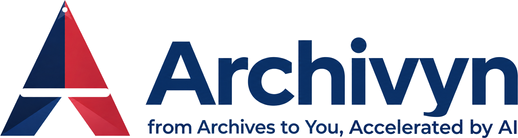
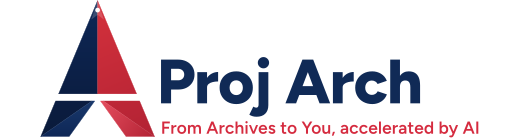
Name the platform Proj Arch
The company is not registered, so the name people see is Proj Arch
everywhere: page text, emails, alt text, titles, and the logo files
(same file names, new wordmark). Contact addresses on the public pages
point at ngocommunications2025@gmail.com until a Proj Arch address
exists.

Unchanged on purpose: cookie, database and service names, CSS file
names, HTTP header names, crawler user agents, and the @archivyn.com
scholar logins, which are existing accounts' identifiers.

diff --git a/sd-ui/src/components/profile/ScholarProfileView.js b/sd-ui/src/components/profile/ScholarProfileView.js
@@ -17,7 +17,7 @@ import SuggestButton from "@/components/profile/SuggestButton";
 import Tile from "@/components/scholar/Tile";
 
 /**
- * Profile: who you are here, as Archivyn holds it.
+ * Profile: who you are here, as Proj Arch holds it.
  *
  * ── What it is for ─────────────────────────────────────────────────────────
  * The record behind everything the platform says about a scholar, curated
@@ -29,7 +29,7 @@ import Tile from "@/components/scholar/Tile";
  * ── What it is not ─────────────────────────────────────────────────────────
  * A second Studio. It used to carry its own "Write an editorial" button, a
  * third name for the door the Studio and Stories already have, and it called
- * stories "editorials". It now has neither: the work on Archivyn is listed,
+ * stories "editorials". It now has neither: the work on Proj Arch is listed,
  * by the names the rest of the app uses, and writing starts where it starts
  * everywhere else.
  *
@@ -216,12 +216,12 @@ export default function ScholarProfileView({ data, corrections }) {
       <header className="prof-head">
         <ProfileAvatar src={photoSrc} initials={profile.initials} name={profile.name} />
         <div className="prof-head__id">
-          <p className="dash-date">Your profile, as Archivyn holds it</p>
+          <p className="dash-date">Your profile, as Proj Arch holds it</p>
           <h1 className="dash-greet prof-name">
             {heading}
-            <span className="prof-verified" title="Verified Archivyn scholar">
+            <span className="prof-verified" title="Verified Proj Arch scholar">
               <HiCheckBadge size={22} aria-hidden />
-              <span className="sr-only">Verified Archivyn scholar</span>
+              <span className="sr-only">Verified Proj Arch scholar</span>
             </span>
           </h1>
           {tagline ? <p className="prof-tagline">{tagline}</p> : null}
@@ -235,7 +235,7 @@ export default function ScholarProfileView({ data, corrections }) {
         </div>
         <div className="prof-head__actions">
           <SuggestButton sectionKey="identity" label="Name and headline" currentText={snapshot.identity} />
-          <Link href="/content" className="dash-btn">What Archivyn says about you <HiOutlineArrowRight size={14} aria-hidden /></Link>
+          <Link href="/content" className="dash-btn">What Proj Arch says about you <HiOutlineArrowRight size={14} aria-hidden /></Link>
         </div>
       </header>
 

diff --git a/sd-api/src/lib/voiceStanding.js b/sd-api/src/lib/voiceStanding.js
@@ -1,5 +1,5 @@
 /**
- * Whether Archivyn may speak *as* a scholar, rather than *about* them.
+ * Whether Proj Arch may speak *as* a scholar, rather than *about* them.
  *
  * ── The line this draws ────────────────────────────────────────────────────
  * The legendary-story pipeline carries `safety.assume_deceased: true`. Every
@@ -33,13 +33,13 @@
  */
 
 const STANDING = {
-  /** The default. Archivyn writes about them, third person, cited. */
+  /** The default. Proj Arch writes about them, third person, cited. */
   CONTEMPORARY: "contemporary",
   /** Opted in, working through the gates. Still written about. */
   CANDIDATE: "candidate",
   /** Corpus, record and consent hold. Voice fidelity under test. */
   CALIBRATING: "calibrating",
-  /** Archivyn may speak as them, inside their declared scope. */
+  /** Proj Arch may speak as them, inside their declared scope. */
   STANDING: "standing",
   /** Held standing; a gate regressed or a warden tripped. Recoverable. */
   SUSPENDED: "suspended",
@@ -65,7 +65,7 @@ function maySpeakAs(standing) {
  * That is the point rather than an oversight. A voice built from 13 third-party
  * chunks under short-quote licences would be neither faithful nor lawful. The
  * gate is cleared by the scholar contributing their own work, which is the one
- * thing Archivyn cannot acquire by scraping — and which simultaneously gives it
+ * thing Proj Arch cannot acquire by scraping — and which simultaneously gives it
  * rights it does not otherwise have.
  */
 const THRESHOLDS = {
@@ -155,7 +155,7 @@ const GATES = [
   {
     key: "record",
     title: "Your record, checked by you",
-    /* Why it exists: everything Archivyn generates about a scholar — passages,
+    /* Why it exists: everything Proj Arch generates about a scholar — passages,
        stories, and any answer a voice would give — is produced from the curated
        record. Checking a generated artefact fixes one disposable thing; checking
        the record fixes every artefact that will ever be made from it.

diff --git a/sd-ui/src/components/scholar/Topbar.js b/sd-ui/src/components/scholar/Topbar.js
@@ -34,7 +34,7 @@ import { AGENT_NAME } from "@/lib/kivyn/pose.mjs";
  * written has no other way to start the next one. Everywhere else it would
  * be in the way. The Studio carries it as a nudge in the page; the new story
  * and a story's own page are already the editor; Papers starts a story from
- * each paper's row; Podcasts, Profile, what Archivyn says about you and Where
+ * each paper's row; Podcasts, Profile, what Proj Arch says about you and Where
  * you stand are not about writing.
  *
  * It is not pinned. It scrolls away with the page — on a reading and writing
@@ -245,7 +245,7 @@ function AccountMenu({ me, active = false }) {
 /* The compact lockup (the mark and the word, no tagline: at bar size the
    tagline would be 5px tall). Width and height are the file's viewBox, so the
    box is reserved before it loads; CSS sets the drawn height. */
-const LOCKUP = { src: "/brand/archivyn-lockup-compact.svg", width: 748.5, height: 225.83 };
+const LOCKUP = { src: "/brand/archivyn-lockup-compact.svg", width: 752.59, height: 226.22 };
 
 export default function Topbar({ activeHref = "/", me = { initials: "SC", name: "Scholar" }, write = false }) {
   const [searchOpen, setSearchOpen] = useState(false);
@@ -271,14 +271,14 @@ export default function Topbar({ activeHref = "/", me = { initials: "SC", name: 
   return (
     <header className="nb-bar">
       <div className="nb-bar__inner">
-        <Link href="/" className="nb-brand" aria-label="Archivyn — home">
+        <Link href="/" className="nb-brand" aria-label="Proj Arch — home">
           {/* Vector, from scripts/brand/archivyn_logo.py: sharp at every size
               and density. A plain <img>, because next/image has nothing to
               optimise in an SVG. */}
           {/* eslint-disable-next-line @next/next/no-img-element */}
           <img
             src={LOCKUP.src}
-            alt="Archivyn"
+            alt="Proj Arch"
             width={LOCKUP.width}
             height={LOCKUP.height}
             className="nb-lockup"

diff --git a/sd-ui/src/app/globals.css b/sd-ui/src/app/globals.css
@@ -2,7 +2,7 @@
 @import "./archivyn-type.css";
 
 :root {
-  /* ── Legacy "flag" palette — aliased onto the canonical Archivyn tokens ── */
+  /* ── Legacy "flag" palette — aliased onto the canonical Proj Arch tokens ── */
   --flag-red: var(--ark-red);
   --flag-blue: var(--ark-navy);
   --flag-white: #ffffff;
@@ -19,7 +19,7 @@
   --shadow-lg: var(--ark-shadow-lg);
   --shadow-md: var(--ark-shadow-md);
 
-  /* ── Scholar Commons — aliased onto the canonical Archivyn tokens ───── */
+  /* ── Scholar Commons — aliased onto the canonical Proj Arch tokens ───── */
   --ink: var(--ark-text);
   --navy: var(--ark-navy);
   --navy-2: var(--ark-blue);
@@ -2903,7 +2903,7 @@ select {
 .st-page {
   padding: 20px 24px 44px; display: grid; grid-template-columns: minmax(0, 1fr) minmax(300px, 360px); gap: 18px; align-items: start;
   /* Aliases, not values. The recipe lives in archivyn-tokens.css, which every
-     Archivyn app ships a copy of; these short names keep the rules below
+     Proj Arch app ships a copy of; these short names keep the rules below
      readable without giving this page its own definition of a card. */
   --st-line: var(--ark-card-line);
   --st-line-strong: var(--ark-card-line-strong);
@@ -5118,7 +5118,7 @@ html.rc-open .public-story-shell { padding-right: calc(var(--rc-width) + var(--r
 
 /* ══ Profile ═════════════════════════════════════════════════════════════════
    The record, in the Studio's cards and tiles: who, then four numbers, then
-   the record beside the details and the work on Archivyn. Everything here is
+   the record beside the details and the work on Proj Arch. Everything here is
    the dashboard's own parts (.dash, .dash-card, .dash-tile, .dash-pill); these
    rules are only what a record has that a dashboard does not. */
 .prof-head { display: flex; align-items: center; gap: 20px; }

diff --git a/sd-ui/src/components/scholar/ContentInventory.js b/sd-ui/src/components/scholar/ContentInventory.js
@@ -111,7 +111,7 @@ export default function ContentInventory({ data }) {
         <h3>We can&rsquo;t load this right now</h3>
         <p>
           Please try again shortly. This isn&rsquo;t a statement about what
-          Archivyn publishes about you &mdash; we simply couldn&rsquo;t reach it.
+          Proj Arch publishes about you &mdash; we simply couldn&rsquo;t reach it.
         </p>
       </div>
     );
@@ -128,10 +128,10 @@ export default function ContentInventory({ data }) {
   return (
     <>
       <header className="sc-page-head">
-        <span className="sc-kicker">Your work on Archivyn</span>
+        <span className="sc-kicker">Your work on Proj Arch</span>
         <h1>Published under your name</h1>
         <p>
-          Everything Archivyn currently shows students, drawn from your
+          Everything Proj Arch currently shows students, drawn from your
           published research or written by you.
         </p>
       </header>
@@ -165,7 +165,7 @@ export default function ContentInventory({ data }) {
           </div>
           <h3>Nothing yet</h3>
           <p>
-            Archivyn hasn&rsquo;t published anything under your name. When it
+            Proj Arch hasn&rsquo;t published anything under your name. When it
             does, it will appear here &mdash; before most people see it.
           </p>
         </div>
@@ -212,7 +212,7 @@ export default function ContentInventory({ data }) {
       {unlinkedEditorials > 0 ? (
         <p className="sc-rail-note">
           {unlinkedEditorials} editorial{unlinkedEditorials === 1 ? "" : "s"} on
-          Archivyn predate scholar sign-in and aren&rsquo;t yet linked to a
+          Proj Arch predate scholar sign-in and aren&rsquo;t yet linked to a
           profile. If you wrote one, tell us and we&rsquo;ll connect it.
         </p>
       ) : null}

diff --git a/sd-api/src/lib/draftComposer.js b/sd-api/src/lib/draftComposer.js
@@ -6,7 +6,7 @@
  * scholar then edits and publishes under their own byline.
  *
  * ── Two voices, and the line between them ──────────────────────────────────
- * `voiceStanding.js` draws the line that Archivyn may write ABOUT a living
+ * `voiceStanding.js` draws the line that Proj Arch may write ABOUT a living
  * scholar by default and AS them only with standing, and no scholar has
  * standing yet. A draft that starts "I found…" under a real name is a claim
  * the person did not make. That rule still holds, in both voices here.
@@ -177,7 +177,7 @@ function buildSystemInstruction({ voice = DEFAULT_VOICE, scholarName = null } = 
   const name = scholarName || "the author";
   if (normaliseVoice(voice) === VOICE.AUTHOR) {
     return [
-      "You draft articles for Archivyn, a public archive that introduces readers to real, living scholars",
+      "You draft articles for Proj Arch, a public archive that introduces readers to real, living scholars",
       "through their own research. This article is the author's own account of their own paper, for a reader",
       "who has not read it. It goes out under their byline, so the prose never refers to them at all.",
       "",
@@ -199,7 +199,7 @@ function buildSystemInstruction({ voice = DEFAULT_VOICE, scholarName = null } = 
     ].join("\n");
   }
   return [
-    "You draft articles for Archivyn, a public archive that introduces readers to real, living scholars",
+    "You draft articles for Proj Arch, a public archive that introduces readers to real, living scholars",
     "through their own research. You are writing ABOUT a scholar's paper, for a reader who has not read it.",
     "",
     "Rules that are checked after you answer:",

diff --git a/sd-api/src/lib/legacyStanding.js b/sd-api/src/lib/legacyStanding.js
@@ -30,7 +30,7 @@
  *
  * ARCHIVYN_WORK_ALONE_SUFFICES = false. A benchmark for scholarship cannot be
  * cleared purely by activity on one platform; the body of work gate has to
- * hold. Archivyn work is weighted heavily inside the benchmark, and it is what
+ * hold. Proj Arch work is weighted heavily inside the benchmark, and it is what
  * most scholars will actually move, but it does not replace the scholarship.
  *
  * STANDING_IS_LOSABLE = false, with one exception. Work done is done, so
@@ -52,7 +52,7 @@ const STANDING = {
   WITHDRAWN: "withdrawn",
 };
 
-/** Archivyn work counts toward the benchmark; it does not replace scholarship. */
+/** Proj Arch work counts toward the benchmark; it does not replace scholarship. */
 const ARCHIVYN_WORK_ALONE_SUFFICES = false;
 /** Work already done is not taken back for inactivity. */
 const STANDING_IS_LOSABLE = false;
@@ -67,7 +67,7 @@ const STANDING_IS_LOSABLE = false;
  * person's mouth is higher than the bar for that person writing about
  * themselves with help.
  *
- * The Archivyn numbers are set where a scholar has plainly used the product
+ * The Proj Arch numbers are set where a scholar has plainly used the product
  * for its purpose rather than tried it once. One published article is a trial;
  * three with levels approved is a practice.
  */
@@ -87,7 +87,7 @@ const THRESHOLDS = {
      what decides whether we may build on it — see draftEligibility. */
   MIN_FULL_USE_SOURCES: 1,
 
-  /* Archivyn. Published, not drafted: a draft is an intention. */
+  /* Proj Arch. Published, not drafted: a draft is an intention. */
   MIN_PUBLISHED_STORIES: 3,
   /* Approved, not generated: generating is a machine act, approving is the
      scholar's. This is the number that carries the mission. */

diff --git a/sd-ui/src/app/claim/[token]/page.js b/sd-ui/src/app/claim/[token]/page.js
@@ -4,8 +4,8 @@ import ClaimForm from "@/components/auth/ClaimForm";
 import { describeInvite } from "@/lib/invites";
 
 export const metadata = {
-  title: "Claim your Archivyn account",
-  description: "Set up your scholar account on Archivyn",
+  title: "Claim your Proj Arch account",
+  description: "Set up your scholar account on Proj Arch",
 };
 
 /**
@@ -38,7 +38,7 @@ export default async function ClaimPage({ params }) {
               </>
             ) : (
               <>
-                Ask the Archivyn team for a new invitation, or{" "}
+                Ask the Proj Arch team for a new invitation, or{" "}
                 <Link href="/login">sign in</Link> if you already have an account.
               </>
             )}
@@ -55,13 +55,13 @@ export default async function ClaimPage({ params }) {
           be able to see WHOSE before they commit — an invitation sent to the
           wrong address should be obvious to the wrong recipient. */}
       <div className="auth-card auth-card--single auth-card--identity">
-        <p className="auth-card__eyebrow">Archivyn scholar account</p>
+        <p className="auth-card__eyebrow">Proj Arch scholar account</p>
         <h2 className="auth-card__identity-name">{invite.scholarName}</h2>
         {invite.institution ? (
           <p className="auth-card__identity-meta">{invite.institution}</p>
         ) : null}
         <p className="auth-card__lede">
-          If this isn&rsquo;t you, don&rsquo;t continue — tell the Archivyn team
+          If this isn&rsquo;t you, don&rsquo;t continue — tell the Proj Arch team
           so the invitation can be withdrawn.
         </p>
       </div>

diff --git a/sd-ui/src/app/layout.js b/sd-ui/src/app/layout.js
@@ -3,13 +3,13 @@ import { getSiteUrl } from "@/lib/site";
 import "./globals.css";
 
 /*
- * Archivyn type system: Inter, for every surface of the product.
+ * Proj Arch type system: Inter, for every surface of the product.
  *
  * One family, loaded here once as `--font-inter` and read through
  * `--font-ui` / `--font-reading` in archivyn-tokens.css; the stack behind it
  * holds the layout until it arrives. The roles — page titles, sections, cards,
  * controls, the 16px reading register, AI responses — are the shared ones in
- * archivyn-tokens.css and archivyn-type.css, the same in every Archivyn app.
+ * archivyn-tokens.css and archivyn-type.css, the same in every Proj Arch app.
  *
  * The variable class sits on <html> so that everything rendered into <body>,
  * portals and dialogs included, sees the variable.
@@ -17,7 +17,7 @@ import "./globals.css";
  * No `weight`: leaving it out fetches the variable font, one file for the
  * whole axis, rather than a static cut per weight the sheet uses.
  *
- * The Archivyn logo is outlined vector (public/brand/, from scripts/brand/archivyn_logo.py) and needs no
+ * The Proj Arch logo is outlined vector (public/brand/, from scripts/brand/archivyn_logo.py) and needs no
  * face of its own: its letters are Figtree, already converted to shapes.
  */
 const inter = Inter({
@@ -27,7 +27,7 @@ const inter = Inter({
 });
 
 export const metadata = {
-  title: "Archivyn · Scholar Commons",
+  title: "Proj Arch · Scholar Commons",
   description: "Where university scholars publish research, stories, and podcasts.",
   metadataBase: new URL(getSiteUrl()),
 };

diff --git a/sd-ui/src/app/(protected)/podcasts/page.js b/sd-ui/src/app/(protected)/podcasts/page.js
@@ -37,7 +37,7 @@ const SECTIONS = [
 /* Said as it is: a turn is meant to stand on a cited passage, and the page
    exists because some do not, so the second step promises the flag, not the source. */
 const STEPS = [
-  ["Paired", "Archivyn pairs your work with another scholar's, often one from the archive, on a theme you share."],
+  ["Paired", "Proj Arch pairs your work with another scholar's, often one from the archive, on a theme you share."],
   ["Written from both records", "Each turn is meant to stand on a passage one of you wrote. You see which, and any turn of yours that cites nothing is flagged."],
   ["Shown to you first", "It appears here before anyone can hear it. The editors decide when it goes out."],
 ];
@@ -104,7 +104,7 @@ export default async function PodcastsPage() {
                 <span className="pods-empty__icon" aria-hidden><HiOutlineMicrophone size={26} /></span>
                 <h2 id="pods-empty-title" className="dash-h2">No conversation has been made in your name yet</h2>
                 <p className="dash-muted">
-                  When Archivyn pairs your work with a scholar from the archive, the conversation appears here first:
+                  When Proj Arch pairs your work with a scholar from the archive, the conversation appears here first:
                   every turn spoken as you, and the passages each one was built from, before anyone can hear it.
                   Conversations are built from your record, so it is worth making sure the record is right.
                 </p>

diff --git a/sd-ui/tests-e2e/standing.spec.js b/sd-ui/tests-e2e/standing.spec.js
@@ -8,7 +8,7 @@
  *
  * ── What these assert, and what they deliberately do not ───────────────────
  * The counts move: other specs in this suite publish stories and approve
- * levels, and the Archivyn half of the benchmark counts exactly those things.
+ * levels, and the Proj Arch half of the benchmark counts exactly those things.
  * So nothing here asserts a number. What is asserted is the shape a benchmark
  * has to have to be one — every mark accounted for, every unmet mark carrying
  * the sentence that would move it, and the standing itself consistent with the
@@ -159,7 +159,7 @@ test("one mark short puts an invitation in the queue, and holding Legacy does no
 
     /* Asserted, not branched on. The seed gives this scholar four papers with
        three licensed in full, so the two scholarship marks hold and only the
-       Archivyn one is short — exactly one mark. Branching here instead would
+       Proj Arch one is short — exactly one mark. Branching here instead would
        let a seed change turn this into a test that quietly checks nothing. */
     expect(standing.standing, `expected one mark short, got ${standing.met}/${standing.total}`).toBe("approaching");
     expect(standing.grandfathered).toBe(false);

diff --git a/sd-ui/src/components/editorial/PublishedStoryReader.js b/sd-ui/src/components/editorial/PublishedStoryReader.js
@@ -50,7 +50,7 @@ function buildStructuredData(story) {
     mainEntityOfPage: canonical,
     publisher: {
       "@type": "Organization",
-      name: "Archivyn",
+      name: "Proj Arch",
     },
   };
 }
@@ -91,7 +91,7 @@ export default function PublishedStoryReader({ story }) {
       <article className="public-story-article">
         <header className="public-story-header">
           <div className="public-story-brand">
-            <span className="eyebrow">Archivyn Stories</span>
+            <span className="eyebrow">Proj Arch Stories</span>
             <Link href="/" className="public-story-brand-link">
               Scholar Dashboard
             </Link>
@@ -102,7 +102,7 @@ export default function PublishedStoryReader({ story }) {
             {story?.subtitle ? (
               <p className="public-story-subtitle">{story.subtitle}</p>
             ) : null}
-            {/* The whole portal exists so that what Archivyn publishes under
+            {/* The whole portal exists so that what Proj Arch publishes under
                 a person's name is something that person stands behind. An
                 article with no byline says the opposite. Absent rather than
                 guessed when the curated record cannot be resolved. */}
